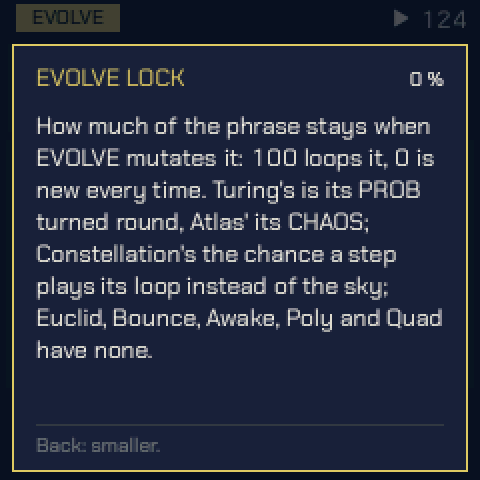
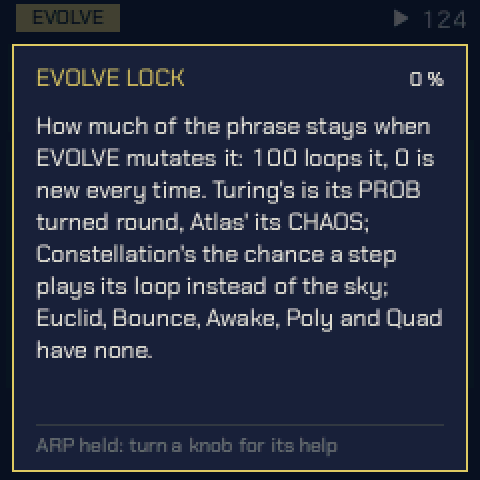
Help card: larger text, no flicker when it scrolls
Theo's 2.0 checks: the help card's text was too small, and scrolling it flickered.

- Two sizes, 12 px and 15 px (the 10 px one is gone): the card opens at the larger when all of
  the text fits there, else at 12 px, where a longer text scrolls; turning on still makes it larger
  while it fits.
- The flicker: every scroll or size step set ui.force, which drew the whole dimmed page first and
  the card over it, so the page showed for a moment. A scroll or a size now marks only the card
  (help.card) and ui_draw draws the card alone; opening the card still draws the page under it.
- ui_test: LOCK opens at the largest size it fits, then turning changes nothing; a scroll on GEN's
  MODE help redraws the card alone (no ui.force). ui_render: the zoom scene for two sizes. Gallery
  help.png re-rendered.

Changed region(s): [[0.0625, 0.9062, 0.7188, 0.9688]]

diff --git a/firmware/src/ui_help.c b/firmware/src/ui_help.c
@@ -9,6 +9,7 @@
 static struct {
     uint8_t on, knob;
     uint8_t zoom, top;                                  /* the text's size (HELP_FONT) and its first line shown */
+    uint8_t card;                                       /* 1: only the card changed (a scroll, a size): drawn alone */
     uint16_t pid;                                       /* PID_NONE: name and text below (CORDS, FORM's CLEAR) */
     const char *name, *text;
 } help;
@@ -160,8 +161,9 @@ static void help_find(uint32_t k)
     }
 }
 
-/* The card: 228 x 214 under the header, over the page. Its text in one of three sizes, the largest it was turned to
- * that shows all of it; a text longer than the card at the smallest scrolls instead */
+/* The card: 228 x 214 under the header, over the page. Its text in one of two sizes: it opens at the larger one when
+ * all of it fits there (Theo 2026-10-23: the old smallest, 10 px, was too small to read), else at the smaller, where a
+ * longer text scrolls */
 #define HELP_X 6
 #define HELP_Y 22
 #define HELP_W 228
@@ -169,8 +171,8 @@ static void help_find(uint32_t k)
 #define HELP_TW 204                                     /* (the text's width) */
 #define HELP_T0 34                                      /* (the text's first line, its last above HELP_T1) */
 #define HELP_T1 188
-#define HELP_LINES 16                                   /* (the most a card holds: the smallest's) */
-static const aafont_t *const HELP_FONT[3] = {&AF_X, &AF_S, &AF_M};
+#define HELP_ZOOMS 2u
+static const aafont_t *const HELP_FONT[HELP_ZOOMS] = {&AF_S, &AF_M};
 static uint32_t help_lh(uint32_t z) { return HELP_FONT[z]->h + 2u; }
 static uint32_t help_rows(uint32_t z) { return (HELP_T1 - HELP_T0) / help_lh(z); }
 
@@ -215,9 +217,10 @@ static uint32_t help_count(uint32_t z)
     return help_wrap(HELP_FONT[z], help_text(), at, len, 0);
 }
 
-/* ui_input.c: knob k turned s with ARP held; 1 = its help shown (the turn does nothing else). The first turn shows it;
- * turning on the same knob makes the text larger while it all still fits (or scrolls a text longer than the card),
- * back smaller again. The card is drawn again only when what it shows changes */
+/* ui_input.c: knob k turned s with ARP held; 1 = its help shown (the turn does nothing else). The first turn shows it,
+ * at the larger size if all of it fits there; turning on the same knob makes the text larger while it all still fits
+ * (or scrolls a text longer than the card), back smaller again. A scroll or a size draws the card alone (help.card),
+ * not the page under it again: drawing that first showed the page for a moment, a flicker */
 static int help_knob(uint32_t k, int32_t s)
 {
     if (!(fm1_in.buttons & (1u << panel.btn[B_ARP])) || ui.menu || ui.confirm || ui.layer)   /* (a popup: ui_input.c) */
@@ -225,14 +228,15 @@ static int help_knob(uint32_t k, int32_t s)
     if (!help.on || help.knob != k) {
         help_find(k);
         help.knob = (uint8_t)k;
-        help.zoom = help.top = 0;
+        help.top = 0;
+        help.zoom = help_count(HELP_ZOOMS - 1u) <= help_rows(HELP_ZOOMS - 1u) ? (uint8_t)(HELP_ZOOMS - 1u) : 0u;
         help.on = 1;
         ui.force = 1;
         return 1;
     }
     if (s > 0) {
         uint32_t n = help_count(help.zoom);
-        if (help.zoom < 2u && help_count(help.zoom + 1u) <= help_rows(help.zoom + 1u)) help.zoom++;
+        if (help.zoom + 1u < HELP_ZOOMS && help_count(help.zoom + 1u) <= help_rows(help.zoom + 1u)) help.zoom++;
         else if (help.top + help_rows(help.zoom) < n) help.top++;
         else return 1;
     } else if (s < 0) {
@@ -242,7 +246,7 @@ static int help_knob(uint32_t k, int32_t s)
     } else {
         return 1;
     }
-    ui.force = 1;
+    help.card = 1;
     return 1;
 }
 
@@ -275,7 +279,7 @@ static void help_strip(int32_t top, int32_t h, const char *name, const char *val
     }
     if (n > rows && help.top + rows < n) hint = "Clockwise: more.  Back: up.";
     else if (help.top) hint = "Back: up.";
-    else if (help.zoom < 2u && help_count(help.zoom + 1u) <= help_rows(help.zoom + 1u))
+    else if (help.zoom + 1u < HELP_ZOOMS && help_count(help.zoom + 1u) <= help_rows(help.zoom + 1u))
         hint = help.zoom ? "Clockwise: larger.  Back: smaller." : "Clockwise: larger.";
     else hint = help.zoom ? "Back: smaller." : "ARP held: turn a knob for its help";
     cv_rect(12, HELP_H - 24, HELP_W - 24, 1, T_LINE);
@@ -305,8 +309,9 @@ static void help_draw(void)
 {
     const pid_entry_t *e = help.pid != PID_NONE ? pid_find(help.pid) : 0;
     char val[24];
-    if (!ui.force)
+    if (!ui.force && !help.card)
         return;
+    help.card = 0;
     help_value(e, val, sizeof val);
     help_strip(0, 124, e ? e->name : help.name, val, e ? pid_help(e) : help.text);
     help_strip(124, HELP_H - 124, e ? e->name : help.name, val, e ? pid_help(e) : help.text);

diff --git a/tests/ui_test.c b/tests/ui_test.c
@@ -1395,26 +1395,22 @@ static int test_help_gesture(void)
                  help.on && help.pid == PID_TESS(TX_EV_AMOUNT) && tessera_param_get(0, TX_EV_AMOUNT) == was);
     turn(EN_K1, 1);
     bad += check("...another knob while held: its help instead (LOCK)", help.on && help.pid == PID_TESS(TX_EV_LOCK));
-    {   /* turning LOCK on: larger while it all fits, then nothing (and no redraw); back: smaller, then nothing */
-        int ok = help.zoom == 0u || help.knob != 0u;
-        uint32_t k, z = 0;
-        help.zoom = help.top = 0;
-        for (k = 0; k < 6u; k++) {
-            ui.force = 0;
-            help_knob(0, 1);
-            if (ui.force) z++;
-            ok &= help_count(help.zoom) <= help_rows(help.zoom) && !help.top;
-        }
-        for (k = 0; k < 2u && help_count(k + 1u) <= help_rows(k + 1u); k++) ;
-        ok &= k > 0u && z == k && help.zoom == k;       /* (as large as LOCK's text fits: AF_S) */
-        ui.force = 0;
+    {   /* LOCK opens at the largest size all of it fits (12 px: at 15 px it would scroll); it fits: turning on or back
+         * changes nothing, and draws nothing again */
+        uint32_t big = help_count(HELP_ZOOMS - 1u) <= help_rows(HELP_ZOOMS - 1u) ? HELP_ZOOMS - 1u : 0u;
+        int ok = help.zoom == big && !help.top && help_count(help.zoom) <= help_rows(help.zoom);
+        help.card = 0; ui.force = 0;
         help_knob(0, 1);
-        ok &= !ui.force;
-        for (k = 0; k < 4u; k++) help_knob(0, -1);
-        ui.force = 0;
+        ok &= help.zoom == big && !help.top && !help.card && !ui.force;
         help_knob(0, -1);
-        bad += check("..turning it on: the text larger while all of it fits, then no redraw; back to the smallest",
-                     ok && !ui.force && help.zoom == 0u);
+        if (big) {                                      /* (a text that fit at 15 px: back to 12, the card alone redrawn) */
+            ok &= help.zoom == 0u && help.card && !ui.force;
+            frame();
+        }
+        help.card = 0; ui.force = 0;
+        help_knob(0, -1);
+        bad += check("..LOCK's help opens at the largest size it fits (12 px or 15 px, no longer 10), then turning changes "
+                     "nothing", ok && help.zoom == 0u && !help.card && !ui.force);
     }
     fm1_in.buttons &= ~(1u << panel.btn[B_ARP]);
     frame();
@@ -1429,6 +1425,13 @@ static int test_help_gesture(void)
         turn(EN_K1, 1);
         n = help_count(0);
         ok = help.on && help.pid == PID_TESS(TX_MODE) && help.zoom == 0u && n > help_rows(0);
+        frame();
+        help.card = 0; ui.force = 0;
+        help_knob(0, 1);                                /* (a scroll: the card alone, not the page under it) */
+        ok &= help.top == 1u && help.card && !ui.force;
+        frame();
+        ok &= !help.card && !ui.force;
+        bad += check("GEN's MODE help: a scroll redraws the card alone, not the page under it (no flicker)", ok);
         for (k = 0; k < 40u; k++) {
             help_knob(0, 1);
             most = help.top > most ? help.top : most;

diff --git a/tests/ui_render.c b/tests/ui_render.c
@@ -1393,7 +1393,7 @@ static void setup(int s)
         help.knob = 0;
         help_find(0);
         help.zoom = help.top = 0;
-        if (s == S_HELP_ZOOM) while (help.zoom < 2u && help_count(help.zoom + 1u) <= help_rows(help.zoom + 1u)) help.zoom++;
+        if (s == S_HELP_ZOOM) while (help.zoom + 1u < HELP_ZOOMS && help_count(help.zoom + 1u) <= help_rows(help.zoom + 1u)) help.zoom++;
         break;
     case S_HELP:                                    /* ARP held, KNOB 1 on EVOLVE (tessera-notes/docs/design/phase2/help.png) */
         tessera_reset();

diff --git a/firmware/src/ui_draw.c b/firmware/src/ui_draw.c
@@ -1706,6 +1706,8 @@ static void ui_draw_frame(void)
             ui.force = 1;
             help_draw();
             ui.force = 0;
+        } else if (help.card) {
+            help_draw();                                /* (a scroll or a size: the card alone, no flicker) */
         }
         draw_head();
         return;
